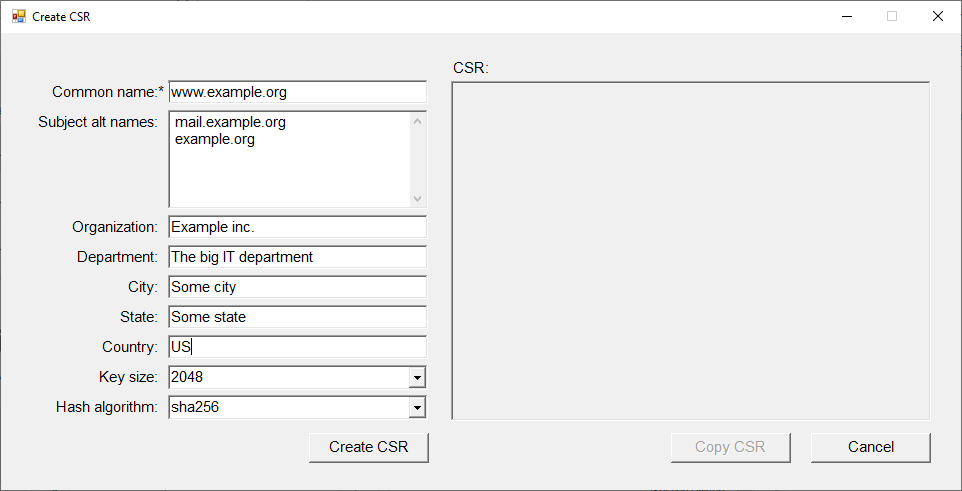
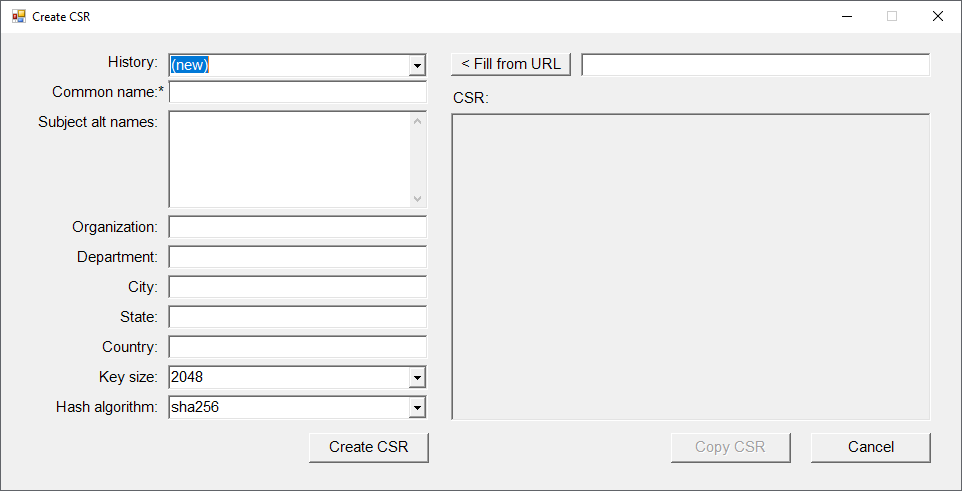
Visual update (#2)
* Update GenerateCSR.ps1 with small visual updates
* Update GUI images for documentation

diff --git a/README.md b/README.md
@@ -10,9 +10,9 @@ Just run Generate-CSR.ps1 with powershell. The following GUI will be presented:
 
 Only the common name is a technically required field. All other fields are optional but most certificate providers require Organization, City, State and Country. If you do not know what to select for Key size and Hash Algorithm just leave the values unchanged. They are fine for normal use. Enter the information you want to include in the certificate.
 
-You can also read the certificate properties of a supplied url and hit Fetch:
+You can also read the certificate properties of a supplied url and hit Fill from URL:
 
-![Image of GUI](/images/guifetch.png)
+![Image of GUI](/images/gui_fill_from_url.png)
 
 After supplying the information hit "Generate CSR". 
 You will be asked to provide a name and location for the generated CSR file:
